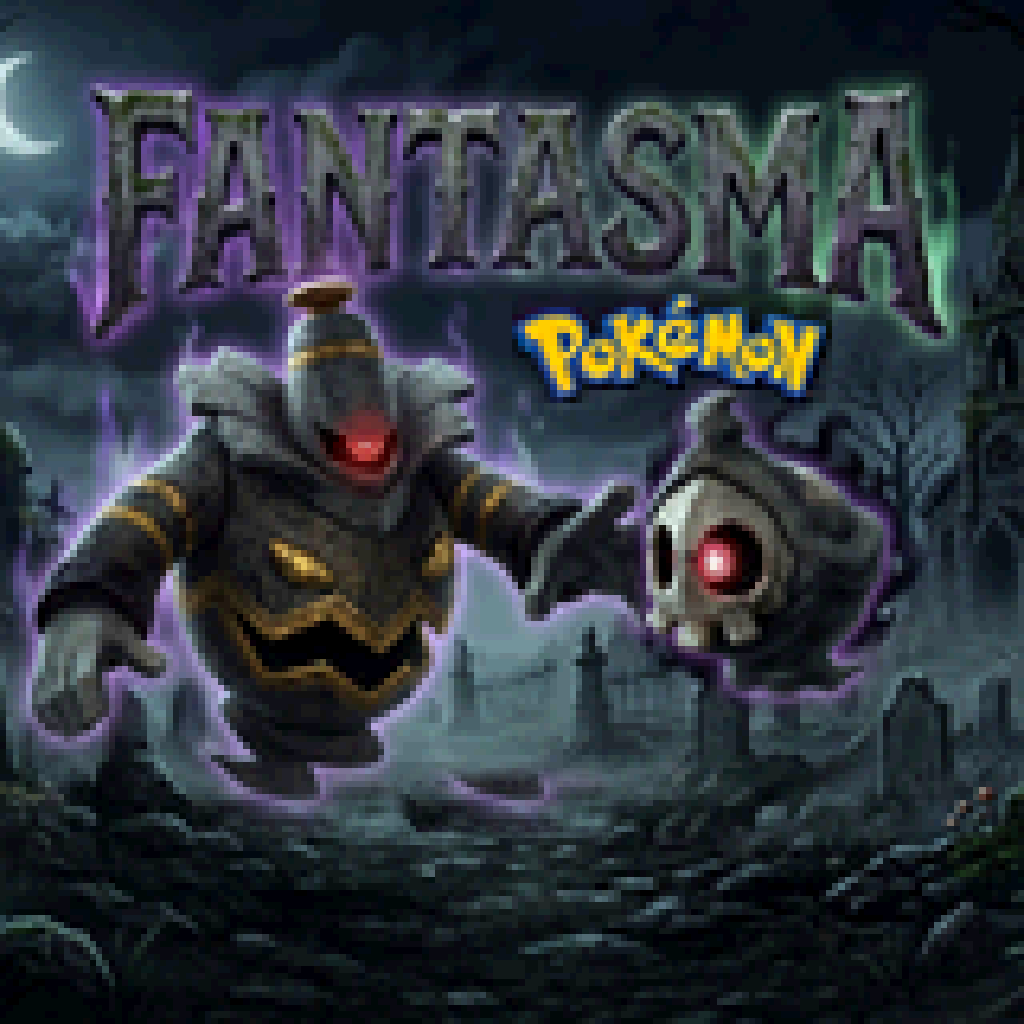
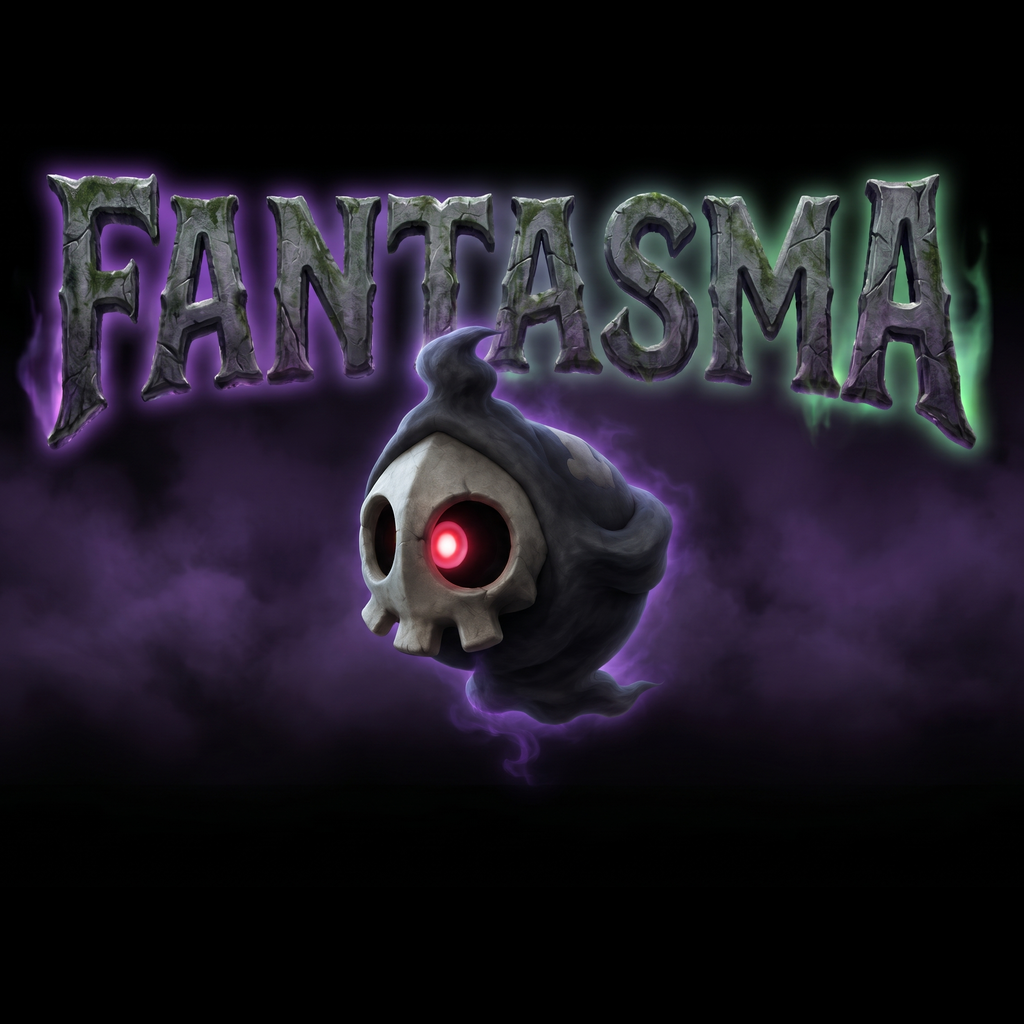
Box art: Duskull and the FANTASMA wordmark on purple mist
Same picture as media/box_art.png on main. Alt text updated to match.

diff --git a/index.html b/index.html
@@ -64,7 +64,7 @@
           <p class="fine">By Don Duskull. This site does not host or distribute ROM files. You need a clean Pokémon Emerald (USA/Europe) ROM dumped from your own cartridge.</p>
         </div>
         <div class="cover">
-          <img src="assets/media/box-art.png" width="1024" height="1024" alt="Fantasma box art: Dusknoir and Duskull against a moonlit, fog-covered landscape.">
+          <img src="assets/media/box-art.png" width="1024" height="1024" alt="Fantasma box art: Duskull under the carved-stone FANTASMA title, in purple mist.">
         </div>
       </div>
     </section>
